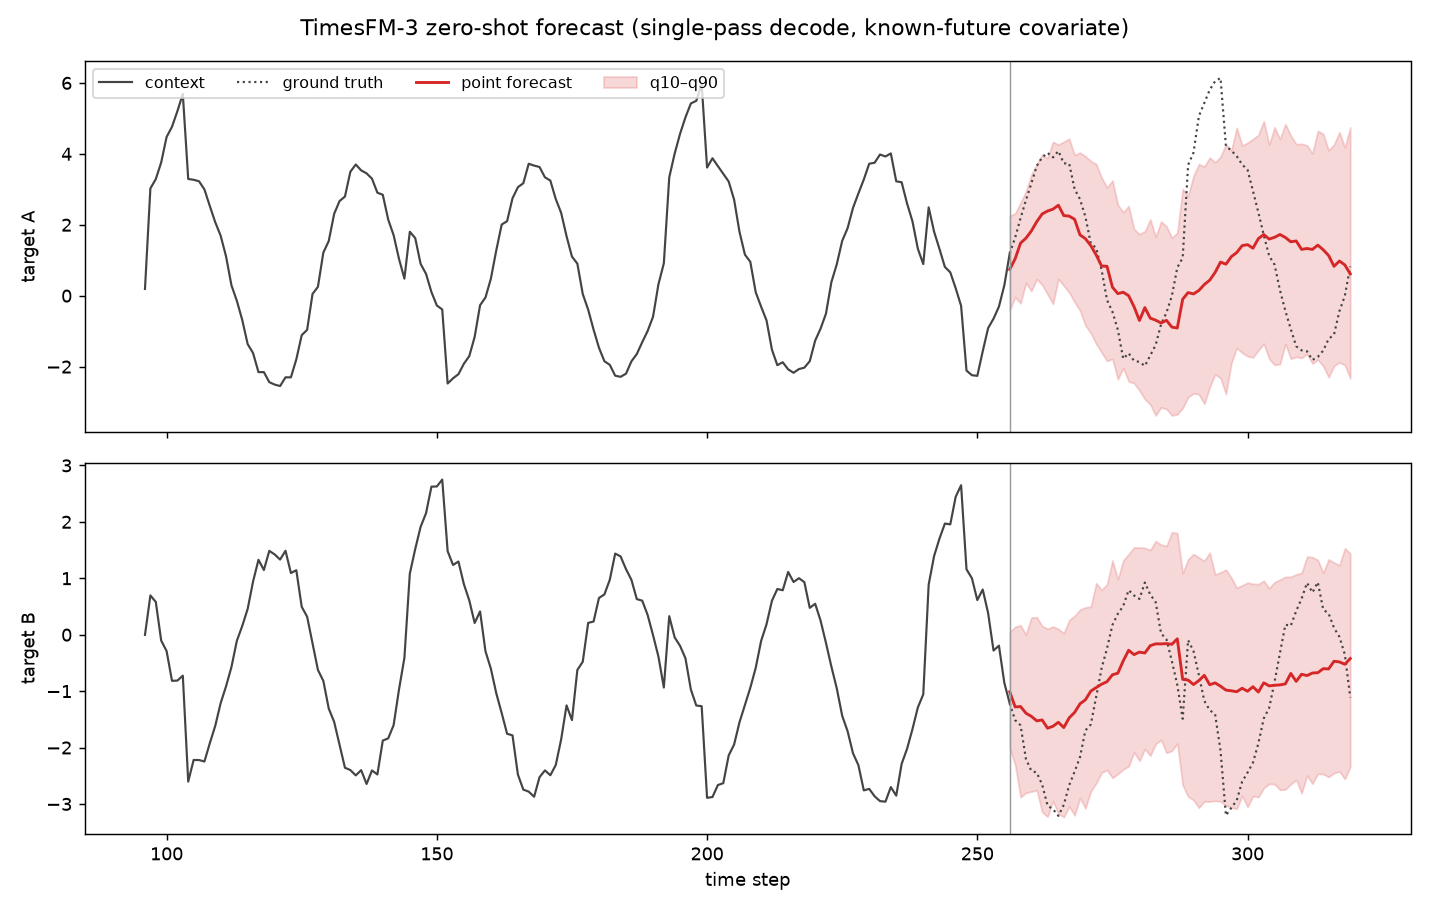
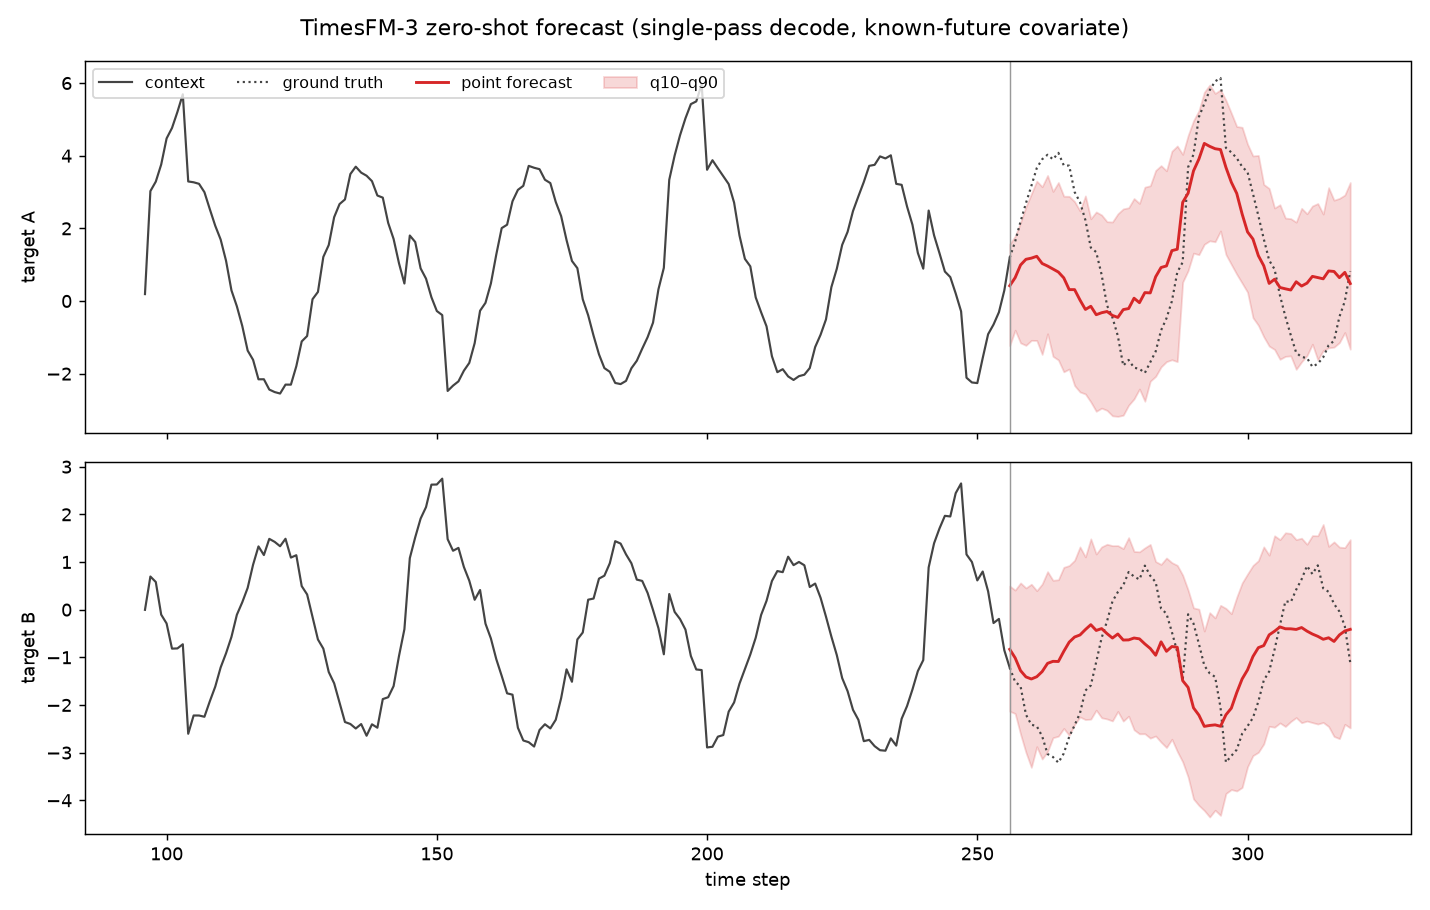
Document 8000-step training results incl. real-data zero-shot eval
Best validation loss 1.405. Scaled MAE: 0.94 vs 1.26/1.18 baselines on
held-out synthetic data; 0.90 vs 1.04 last-value on real ETTh1 data
zero-shot (seasonal-naive at 0.70 remains ahead, as expected for 1M
params of synthetic-only pretraining). Demo plot refreshed: the point
forecast now anticipates the known-future covariate's peak.

diff --git a/README.md b/README.md
@@ -86,17 +86,27 @@ python -m timesfm3.train --config tiny --steps 600 --batch-size 16 \
 python examples/plot_forecast.py --checkpoint timesfm3_checkpoint.pt
 ```
 
-The tiny (1M parameter) config trains in ~20 minutes on CPU and already
-produces calibrated seasonal forecasts on held-out synthetic series. After
-4000 steps it reaches a scaled MAE of **0.80** on 249 held-out target
-series, versus **1.27** for a last-value baseline and **1.06** for a
-context-mean baseline (`examples/evaluate.py`):
+The tiny (1M parameter) config trains in ~25 minutes on CPU with held-out
+validation and best-checkpoint saving. After 8000 steps (best validation
+loss 1.405), scaled MAE against naive baselines:
+
+| Evaluation | model | last-value | seasonal-naive | context-mean |
+|---|---|---|---|---|
+| Held-out synthetic (248 target series) | **0.94** | 1.26 | — | 1.18 |
+| ETTh1, real data, zero-shot (40×7 windows) | **0.90** | 1.04 | 0.70 | — |
+
+On real ETTh1 data — never seen in training — the model transfers well
+enough to beat the last-value baseline, though 1M parameters of
+synthetic-only pretraining does not yet beat a daily seasonal-naive on
+strongly daily-periodic data; the released model's zero-shot quality comes
+from its >1T-point corpus and 334× larger capacity.
 
 ![Demo forecast](docs/forecast_demo.png)
 
 The plot (`examples/plot_forecast.py`) shows the single-pass decode on two
 correlated targets with a known-future covariate: the point forecast
-continues the seasonal phase and the q10–q90 band widens with lead time.
+continues the seasonal phase, anticipates the covariate-driven peak, and
+the q10–q90 band widens with lead time.
 
 This is an independent re-implementation of the publicly described
 architecture; no pre-trained weights are included, and the released
